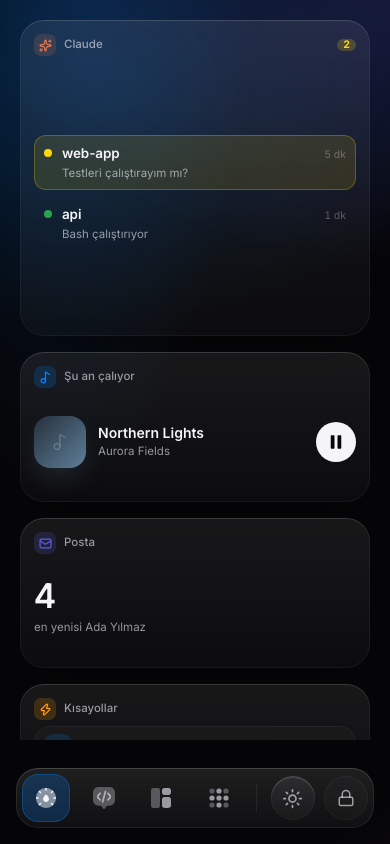
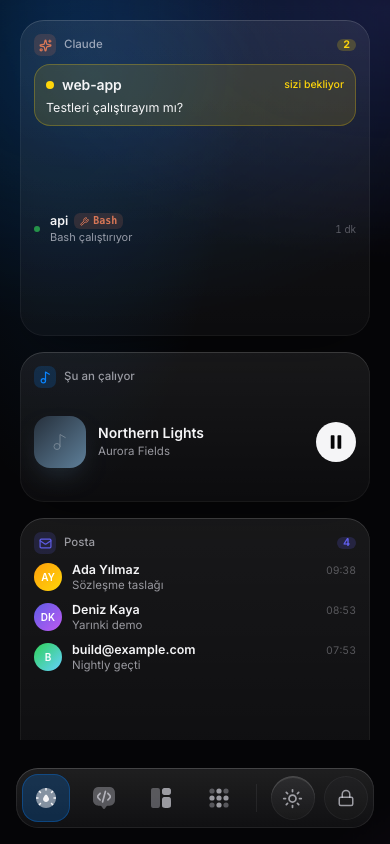
Docs: refresh the README and its screenshots
The README still claimed a fixed 1973×426 viewport with no
breakpoints, which stopped being true when the surfaces landed. It now
describes what the apps actually do: shortcuts that remember their last
run, an infrastructure fleet table that names the fault, an island that
shrinks to its icon, and the rule that a widget leads with the answer
rather than a count.

Screenshots are regenerated from the demo instance against a faked
core, so nothing real appears in them.

Also: shortcut keys pick their column count from the module width
instead of the item count, and the mail and Claude widgets stop
clipping their lists on short tiles.

Claude-Session: https://claude.ai/code/session_012N8sRYsd2YrirbxuYqKjbW

diff --git a/components/os/widgets/claude.tsx b/components/os/widgets/claude.tsx
@@ -88,8 +88,8 @@ export function ClaudeSessionsWidget({ size, data }: WidgetProps) {
             <p className="mt-1 line-clamp-2 text-[12.5px] leading-snug">{step(hero)}</p>
           </div>
         )}
-        {/* Kahraman varsa satırlar hemen altına yaslanır; yoksa ortalanır. */}
-        <div className={`flex min-h-0 flex-1 flex-col gap-2 ${hero ? "justify-start" : "justify-center"}`}>
+        {/* Geniş yuvada satırlar kahramanın altına yaslanır; dar yuvada ortalanır. */}
+        <div className={`flex min-h-0 flex-1 flex-col gap-2 overflow-hidden ${hero && size === "2x2" ? "justify-start" : "justify-center"}`}>
           {rows.map((s) => (
             <div key={s.id} className="flex items-center gap-2.5">
               <span

diff --git a/components/screens/ShortcutsScreen.tsx b/components/screens/ShortcutsScreen.tsx
@@ -135,7 +135,9 @@ export default function ShortcutsScreen() {
             <div
               className="grid min-h-0 flex-1 content-start gap-3 overflow-y-auto"
               style={{
-                gridTemplateColumns: `repeat(${colsFor(group.items.length)}, minmax(0, 1fr))`,
+                // Sütun sayısını modülün genişliği belirler: tuş 330 px'in altına
+                // düşmez, sığdığı kadarı yan yana dizilir.
+                gridTemplateColumns: "repeat(auto-fill, minmax(330px, 1fr))",
                 // Sabit tuş yüksekliği: sütunlar farklı sayıda kısayol taşısa da
                 // tuşlar aynı boyda kalır, artan yer alanı boş bırakır.
                 gridAutoRows: "134px",

diff --git a/components/os/widgets/mail.tsx b/components/os/widgets/mail.tsx
@@ -74,7 +74,8 @@ export function InboxWidget({ size, data }: WidgetProps) {
     return (
       <Tile tint={TINT} screen="mail">
         <TileHead icon={Mail} title="Posta" tint={TINT} trailing={<Pill tint={TINT}>{total}</Pill>} />
-        <div className="flex min-h-0 flex-1 flex-col justify-center gap-2.5">
+        {/* Yüzeye göre yükseklik değişir; satırlar üstten dizilir, sığmayan kırpılır */}
+        <div className="flex min-h-0 flex-1 flex-col justify-start gap-2.5 overflow-hidden">
           {unread.slice(0, 4).map((m) => (
             <div key={m.pk} className="flex items-center gap-2.5">
               <Avatar m={m} size={28} />

diff --git a/README.md b/README.md
@@ -21,12 +21,12 @@ The same dashboard, composed for two other surfaces:
 ## What it does
 
 - **A dashboard that composes itself.** Apps publish widgets in grid units. Each widget reports how urgent its own data is; that is blended with the importance you gave it, and the score buys floor space. A widget with nothing to say takes no room at all, the clock and the weather fill what is left, and they step aside when something happens. Layout changes are calm on purpose: a placement holds for twenty seconds unless something critical needs the room.
-- **Shortcuts.** One tap opens a project in VS Code or an SSH session in Termius or Terminal on the Mac. The toast shows the real result.
+- **Shortcuts.** One tap opens a project in VS Code or an SSH session in Termius or Terminal on the Mac. Each key carries its target and when it last fired; the core counts every successful run, so the widget orders itself by what you actually use. The result appears on the key you pressed.
 - **Claude.** Claude Code sessions on the Mac: running, waiting for you, or closed. Tokens per session, today's usage, and a live event feed for the selected session.
 - **Mail.** Your Spark Desktop inbox, read directly from Spark's local database: accounts, unread counts, message list and preview.
-- **Infra.** Server grid → containers → container dashboard, powered by [Beszel](https://beszel.dev). CPU, memory and network sparklines, container logs and `docker inspect`, with honest failure states.
+- **Infra.** A fleet table where processor, memory and disk line up across every server, powered by [Beszel](https://beszel.dev). The left column names what is broken and jumps straight to it. Drill in for rings, services, metrics, `docker inspect` and logs that collapse repeated lines into one row with a count.
 - **Chat.** Chatwoot (customer conversations) and Mattermost (team chat) in one screen: the conversations assigned to you, who is still waiting for your reply and for how long, plus mentions, direct and group messages. Tap an item for the recent messages. Read-only.
-- **Attention layer.** A Dynamic Island above every screen. `info` and `attention` notices collapse after a few seconds; `urgent` notices persist across restarts until you dismiss them. Anything can post a notice: the agent, built-in monitors, a CI webhook, an uptime service. A notice can carry actions, and tapping one routes the work back to the device that can do it.
+- **Attention layer.** A Dynamic Island above every screen. `info` and `attention` notices shrink to their icon after a few seconds so they cover nothing; `urgent` notices persist across restarts until you dismiss them. Anything can post a notice: the agent, built-in monitors, a CI webhook, an uptime service. A notice can carry actions, and tapping one routes the work back to the device that can do it.
 - **One interface, many surfaces.** The grid is derived from the screen: 4×2 on the strip, 4×3 on a desktop, a single scrolling column on a phone, where the rail lies down and becomes a bottom bar.
 - **Admin panel.** `/admin` from your computer: screens, shortcuts, notice rules, active notices, infra, mail, settings and security. Everything lives in SQLite; the kiosk pulls its configuration from the API, so nothing is hard-coded.
 - **Lock screen.** Server-validated PIN, rate limited, auto-lock after inactivity.
@@ -119,9 +119,11 @@ The kiosk refreshes its configuration every minute and whenever it regains focus
 
 Widgets are the unit of the dashboard. A widget declares which sizes it supports in grid cells, a default importance, and a function that looks at live data and returns how urgent it is right now.
 
+A widget leads with the answer, not a count. The small slot names the conversation that has waited longest or the server that stopped answering; the count goes in the header. Bigger slots show more of the same list rather than a different idea, so a widget reads as a window into its app.
+
 | Size | Cells | Typical use |
 | --- | --- | --- |
-| 1×1 | 1 | one number, one state |
+| 1×1 | 1 | the single most important thing, named |
 | 2×1 | 2 | a row of items |
 | 1×2 | 2 | a vertical stack |
 | 2×2 | 4 | the hero, with controls |
@@ -229,10 +231,10 @@ docs                   Screenshots and the original design brief (Turkish)
 
 The panel targets one device and one distance: a strip display within arm's reach. The rules that follow from that:
 
-- Fixed 1973×426 viewport, no responsive breakpoints. Every layout is designed for exactly this canvas.
+- The strip display, 1973×426, is the reference canvas, but no layout is pinned to it: the grid and the shell are derived from the surface, so a phone or a desktop browser gets the same system in its own shape.
 - Only `transform` and `opacity` animate; no backdrop blur. The Pi's GPU has to hold 60 fps.
 - Gestures track the finger 1:1, hand off velocity to springs, and can be interrupted at any moment. Feedback happens on pointer-down, not on release.
-- Drill-downs follow one standard: grid → list → detail, with the same header, the same back gesture and the same empty and failure states everywhere.
+- Drill-downs follow one standard: overview → list → detail, with the same header, the same back gesture and the same empty and failure states everywhere.
 - Dark and light themes share one token set; the kiosk remembers the user's choice, the admin panel sets the default.
 - The admin panel is a quiet desktop surface: save buttons enable when something changed, deletion is a two-step confirm, and every action reports back in the same words it was named with.
 
